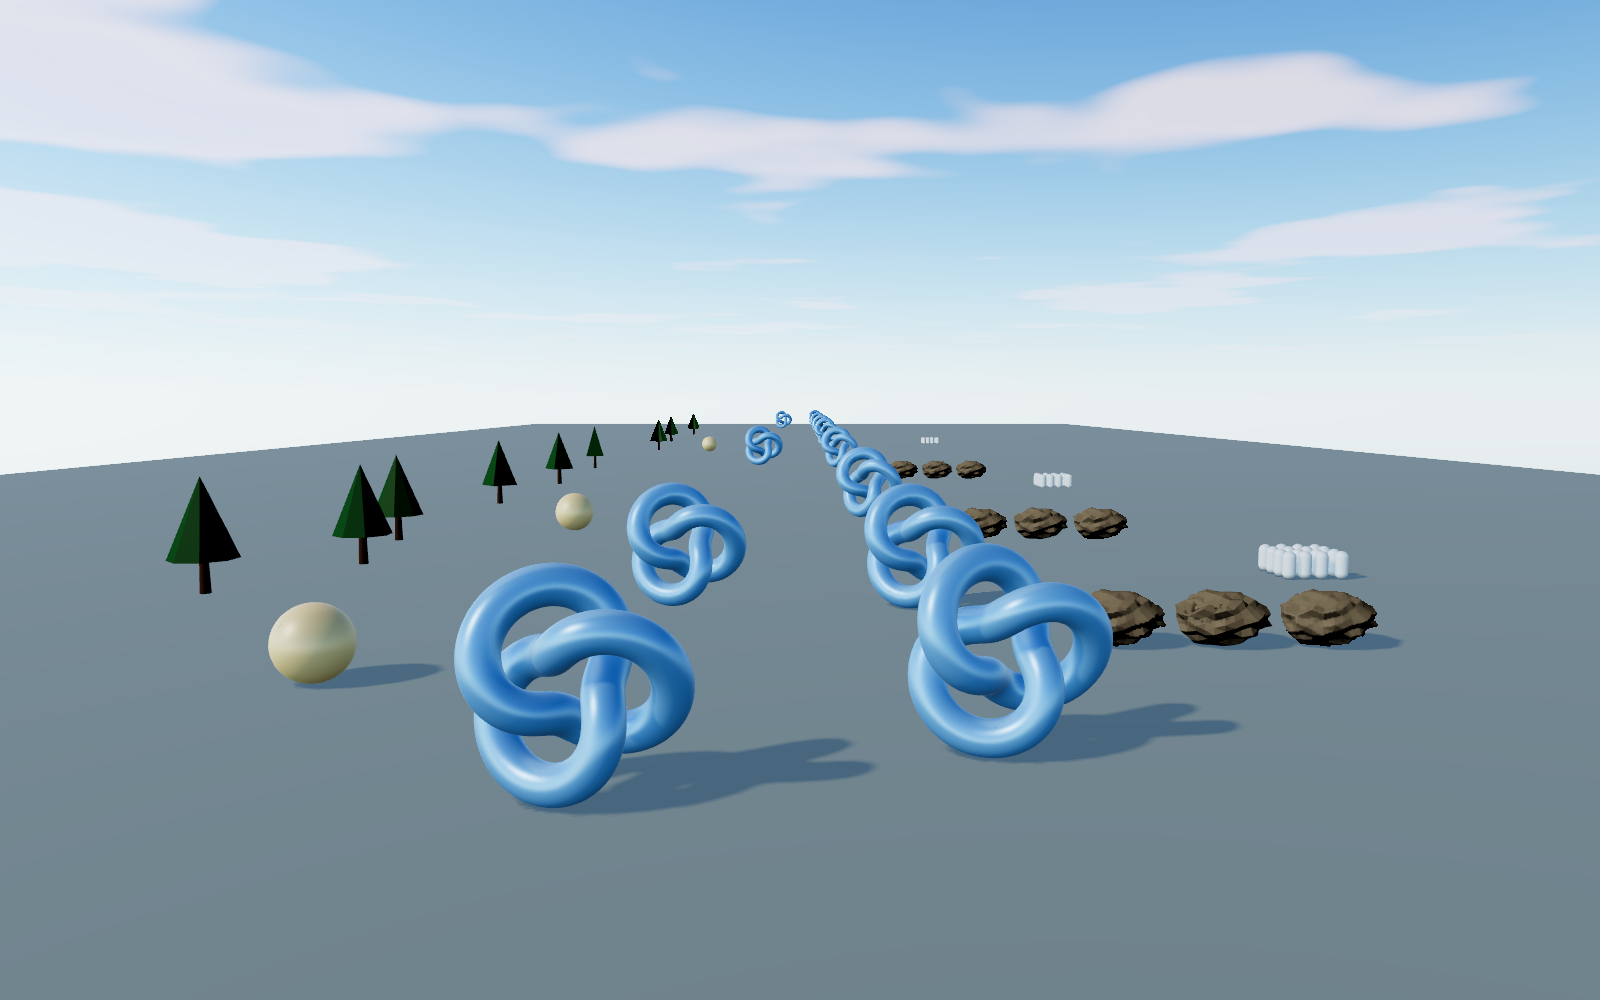
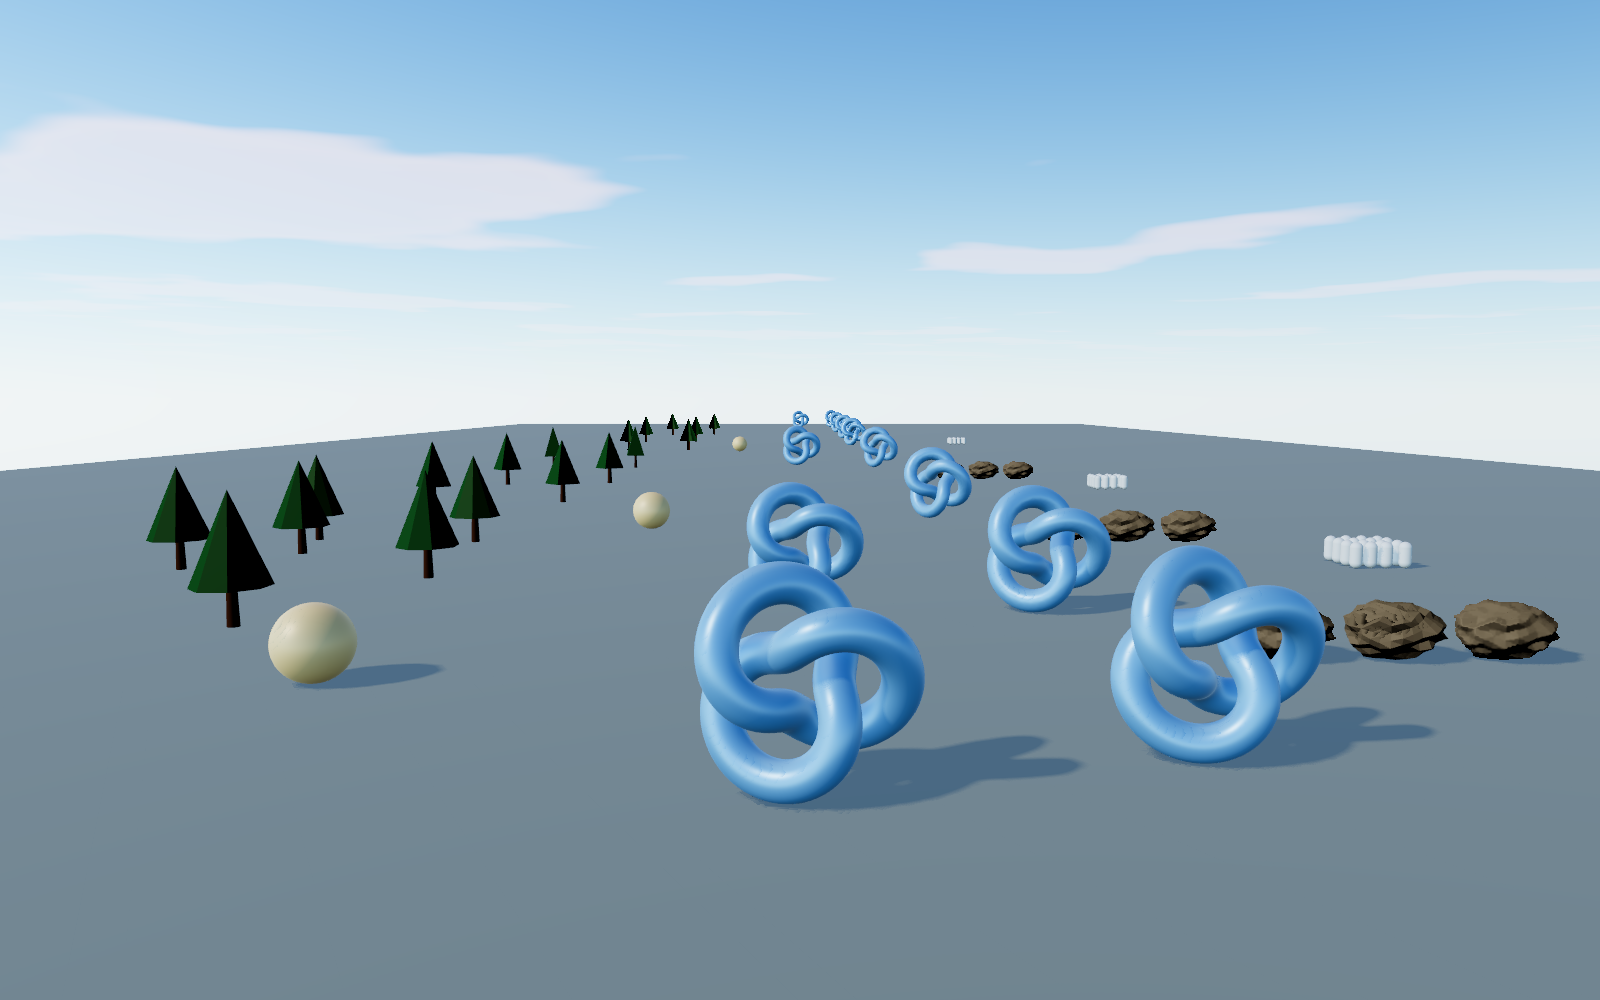
GPU drive culling, phase 6 - section 2

diff --git a/hub/pages/features/lod/index.html b/hub/pages/features/lod/index.html
@@ -9,11 +9,11 @@
     <meta name="aek:covers" content="Instanced mesh pools, Instance sets, LOD chains, LOD selection, Impostors" />
     <meta
       name="aek:tags"
-      content="lod, level of detail, lod chain, simplification, meshoptimizer, auto, cross-fade, dither, instancing, instanced mesh, pool, impostor, octahedral, cross quads, billboard, export"
+      content="lod, level of detail, lod chain, simplification, meshoptimizer, auto, cross-fade, dither, instancing, instanced mesh, pool, instance set, gpu culling, compute, indirect draw, impostor, octahedral, cross quads, billboard, export"
     />
     <meta
       name="aek:description"
-      content="Levels of detail picked by screen size and cross-faded without a pop: hand-made or generated levels, instanced pools, and impostors baked at load or exported."
+      content="Levels of detail picked by screen size and cross-faded without a pop: hand-made or generated levels, instanced pools, GPU-culled instance sets, and impostors baked at load or exported."
     />
   </head>
   <body>

diff --git a/src/app/scenes/lodShowcase/lanes/instanceSetGrove.ts b/src/app/scenes/lodShowcase/lanes/instanceSetGrove.ts
@@ -32,14 +32,14 @@ export const instanceSetGroveLane: ShowcaseLane = {
     // #region instance-set-grove (shown in the Hub: features/lod, "Instance sets")
     const set = await createInstanceSetAsync({
       world: ctx.world,
-      levels, // an instanced LOD pool's levels: geometry, material(s), screenSize, castShadow
-      lod, // { cullScreenSize: 0.04 }: the selection settings every instance shares
+      levels, // a LOD pool's: geometry, material(s), screenSize, castShadow
+      lod, // { cullScreenSize: 0.04 }, shared by every instance
       maxInstances: placements.length,
       receiveShadow: true,
     });
     // null: the scene exited while the set's backend loaded
     if (!set) return state;
-    ctx.rootScene.add(set.object); // directly under the root scene: the instances are in world space
+    ctx.rootScene.add(set.object); // under the root scene: world space
     set.addInstances(placements); // plain data, no entity per instance
     // #endregion instance-set-grove
 

diff --git a/src/_engine/features/instancing/index.ts b/src/_engine/features/instancing/index.ts
@@ -9,5 +9,10 @@ export type {
 export type { InstancedMeshSlotData, InstancePlacement } from './InstancedMeshPoolTypes';
 export { createInstanceSetAsync, readInstanceSetStatsAsync } from './InstanceSet';
 export type { CreateInstanceSetOptions, InstanceSet, InstanceSetBackendKind } from './InstanceSet';
-export type { InstanceRange, InstanceSetSlotStats, InstanceSetStats } from './InstanceSetTypes';
+export type {
+  InstanceRange,
+  InstanceSetData,
+  InstanceSetSlotStats,
+  InstanceSetStats,
+} from './InstanceSetTypes';
 export { instancing } from './InstancingFeature';

diff --git a/src/_engine/features/instancing/InstanceSetTypes.ts b/src/_engine/features/instancing/InstanceSetTypes.ts
@@ -11,8 +11,7 @@ import type { InstancedLodPoolLevel } from './InstancedMeshPool';
 
 /**
  * The `INSTANCE_SET` component's data: the set its entity owns. Deleting the entity (or removing
- * the component) disposes the set.
- * @internal
+ * the component) disposes the set. Set by `createInstanceSetAsync`: don't add it.
  */
 export interface InstanceSetData {
   /** The set's draws, a child of the scene it's added to. */

diff --git a/hub/pages/features/lod/guide.md b/hub/pages/features/lod/guide.md
@@ -3,7 +3,8 @@
 List [`lod()`](api:lod), from `aekasha/lod`, in `InitEngine`'s `features` (see
 [How the app starts](hub:examples/quick-start#how-the-app-starts)), and
 [`instancing()`](api:instancing), from `aekasha/instancing`, for the instanced pools
-([Many instances](#many-instances)). Generating chains and impostors loads on first use.
+([Many instances](#many-instances)) and instance sets ([Instance sets](#instance-sets)).
+Generating chains and impostors, and a set's backend, load on first use.
 
 - Without `lod()`, a mesh's `lod` does nothing (`"AUTO"` warns once), and an import reads no
   prebuilt chains and builds none.
@@ -74,6 +75,109 @@ entity whose level changed is touched. `AppConfig.lod.maxSelectionsPerFrame`
 ([`setLodMaxSelectionsPerFrame`](api:setLodMaxSelectionsPerFrame)) spreads it over frames when
 there are very many.
 
+## Instance sets
+
+A pool's cost grows with its instances: every instance is an entity, selected and synced on the
+CPU each frame, and an ECS world holds 100,000 entities by default. An instance set
+([`createInstanceSetAsync`](api:createInstanceSetAsync)) draws the same levels for instances
+that are plain data, with no entity per instance. On WebGPU a compute pass selects every
+instance's level with the pool's rules (screen size, hysteresis, cross-fades), frustum-culls it
+for each camera, and appends it to its level's list, and each level is an indirect draw that the
+pass wrote the count of. A hundred thousand or a million trees cost the CPU about the same.
+
+The `lodShowcase` lane next to the pool's draws the same trees as a set:
+
+<<< src/app/scenes/lodShowcase/lanes/instanceSetGrove.ts#instance-set-grove
+
+- The options are an instanced LOD pool's: the same `levels` and `lod`. `maxInstances` is sized
+  once, up to 16,777,216.
+- It's async because each backend loads on first use, and it resolves `null` when the scene
+  exited meanwhile.
+- Add `object` directly under the root scene: the instances are in world space. The set's
+  owning entity (`entityId`) disposes it, so a scene switch clears it like the rest of the scene.
+- `preWarm: true` compiles its shaders once `object` is in the scene, for a set made during
+  play. A set made by scene code needs none: the load's own frames build it.
+
+A set gives up what an entity gives a pool's instance: a `Transform`, the ECS visibility tags, a
+spatial domain, raycasts and gameplay asking whether an instance is visible. Its scale is
+uniform. Instances can move
+([`setInstanceMatrices`](api:InstanceSet.setInstanceMatrices), uploaded once a frame), but a set
+is meant for content that stays put: a sway or wind belongs in the material.
+
+### A pool or a set
+
+Take a set for static content past about 20-50k instances: a forest, a field of rocks, a
+scatter. Keep a pool for instances that gameplay addresses, and below about 20k, where a pool's
+selection and sync cost under 2 ms. Measured on the `instanceStress` scene's forest (three mesh
+levels and a cull, the camera circling inside it; a minified build, Apple M2, Chrome, WebGPU):
+
+| Trees | Pools: CPU / GPU frame | Set, CPU backend | Set, GPU backend |
+| --- | --- | --- | --- |
+| 5k | 1.50 / 1.97 ms | 0.60 / 1.63 ms | 0.49 / 1.25 ms |
+| 20k | 3.59 / 2.60 ms | 1.29 / 2.66 ms | 0.44 / 1.71 ms |
+| 100k | 15.92 / 5.08 ms | 2.70 / 7.04 ms | 0.54 / 2.92 ms |
+| 1M | 166 ms CPU | | 1.1 ms CPU |
+
+The 1M row is the CPU frame alone, from a run without the debug tools (which give the GPU
+figures); the pools there need an ECS world past its default size. With the sun's shadow the set's
+shadow costs about the same at any count (its shadow camera draws only the casting levels in its
+frustum): a GPU frame of 8.6 ms at 100k against the pools' 13.1.
+
+### Two backends
+
+`set.backend` says which one draws it, chosen by the renderer:
+
+- **`'GPU'` (WebGPU)**: the compute pass and the indirect draws above. The CPU does a few
+  dispatches and a draw per level and material group, per camera.
+- **`'CPU'` (WebGL2, which has no compute)**: the same set and the same rules in a loop over the
+  instances' arrays, without entities, and an `InstancedMesh` per level, as a pool has. It costs
+  about a tenth of the pool's CPU (12-20 ns an instance against 94-195 ns), and it draws what the
+  pool draws: the same levels, the same fades. three culls each level mesh as a whole, so past
+  about 20k instances spread around the camera it draws more than tiled pools do (the table's
+  GPU frame at 100k).
+
+### Every camera
+
+Every camera that renders the set draws it: the view, a light's shadow, a
+[viewport](hub:features/viewports), the debug camera and a [snapshot](hub:features/rendering#snapshots).
+On WebGPU each takes a slot on its first render (`maxSlots`, 8 by default) and culls the set
+against its own frustum, with the levels chosen for the main camera. A shadow's slot draws only
+the levels that cast. A render of another scene (an impostor or sky bake) costs the set nothing.
+
+### Ranges and streamed cells
+
+[`addInstances`](api:InstanceSet.addInstances) returns the instances' range, and
+[`removeInstances`](api:InstanceSet.removeInstances) frees it for a later add of its size or
+smaller. So one set can serve every cell of a [streamed world](hub:features/streaming#cell-content):
+each cell's content adds its range in `load` and removes it in `unload`, and returns no entity.
+A range doesn't fade in or out, so load the cells from a ring past the set's cull distance: a
+cell then loads before its instances would show, and unloads after the set has culled them.
+
+### Memory
+
+On the GPU backend a set keeps 72 bytes an instance (its matrices, cull spheres and state), plus
+its visible lists: `maxSlots` × levels × `maxVisible` × 4 bytes (6 MiB with the defaults and
+three levels). At a million instances that's 74.7 MB. The CPU backend's level meshes are each
+sized for every instance, about 65 MB a level at a million.
+
+### Seeing a set work
+
+three's draw and triangle counts leave out indirect draws. In debug mode the LOD tab's Instance
+sets folder shows each set instead: its backend and instances, each level's drawn and selected
+counts, culled, fading, past the visible budget, the triangles drawn and each camera drawing it.
+The tab's freeze, forced level and fade time scale drive sets too, and its "CPU backend (next
+sets)" box puts the next sets on the CPU backend on WebGPU, to compare both on one device. Each
+set is also a source in the GPU memory tab. From code,
+[`readInstanceSetStatsAsync`](api:readInstanceSetStatsAsync) reads the counts back (debug and
+prod test builds only).
+
+::: dev-only Measuring it
+The `instanceStress` scene draws its forest with pools, or with `?stressPath=gpu` a set, at
+`?stressInstances=N`. `npx tsx devTools/bench/instanceStress.ts` measures both paths at any
+count on a dev server or a `yarn build:test` build, and `devTools/bench/instanceStressLodTab.ts`
+drives the LOD tab on both and compares them. Their options are in each file's header.
+:::
+
 ## Impostors
 
 An impostor is a far level drawn with a few textured quads. Only the albedo, normals and depth
@@ -129,7 +233,7 @@ shows its live screen size and the distance of each switch.
 
 ::: scene lodShowcase
 **The full demo:** every LOD feature in its own lane, every level of every lane on screen from
-the start camera. Its LOD demo tab has camera stops on both sides of every switch and a dolly
+the start camera, an instanced pool's trees and the same trees as an instance set side by side. Its LOD demo tab has camera stops on both sides of every switch and a dolly
 down the lanes.
 :::
 
@@ -143,6 +247,8 @@ down the lanes.
 - [`generateLodChain`](api:generateLodChain).
 - [`createInstancedMeshPool`](api:createInstancedMeshPool) and
   [`createInstancedLodPool`](api:createInstancedLodPool).
+- [`createInstanceSetAsync`](api:createInstanceSetAsync) and
+  [`readInstanceSetStatsAsync`](api:readInstanceSetStatsAsync).
 - [`generateCrossQuads`](api:generateCrossQuads) and
   [`generateOctahedralImpostor`](api:generateOctahedralImpostor).
 - [`registerLodTarget`](api:registerLodTarget): levels for entities that aren't plain meshes.

diff --git a/hub/pages/features/lod/intro.md b/hub/pages/features/lod/intro.md
@@ -2,7 +2,8 @@ A far object doesn't need its full mesh. Ækasha's LOD system gives each object 
 detail from its size on screen, and cross-fades every change, so nothing pops. The levels are
 hand-made, or generated from the mesh with meshoptimizer, and the farthest can be an impostor:
 the object drawn on a few textured quads, still lit by the scene. Thousands of instances cost a
-draw call per level.
+draw call per level, and an instance set keeps a million of them off the CPU: on WebGPU a compute
+pass culls them and picks their levels.
 
 ::: scene exampleLod
 180 torus knots of 16,384 triangles each, in one instanced LOD pool: a generated chain of
